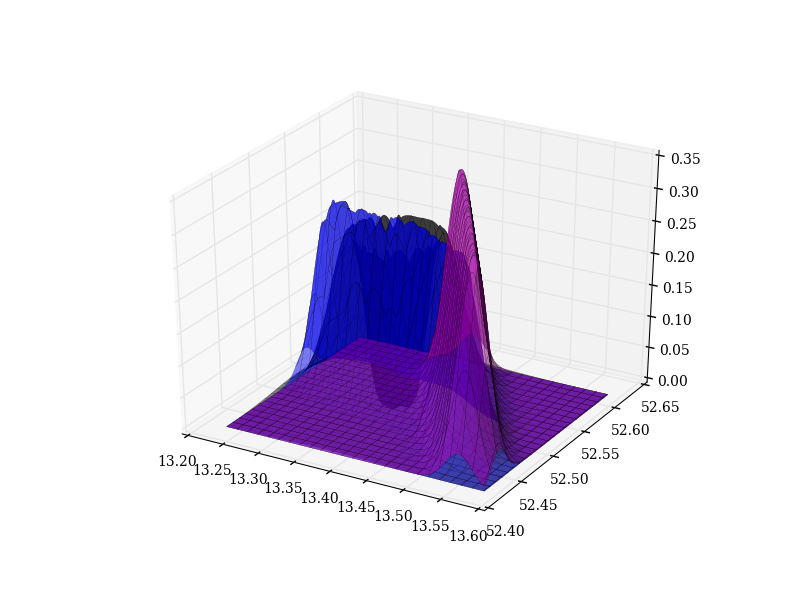
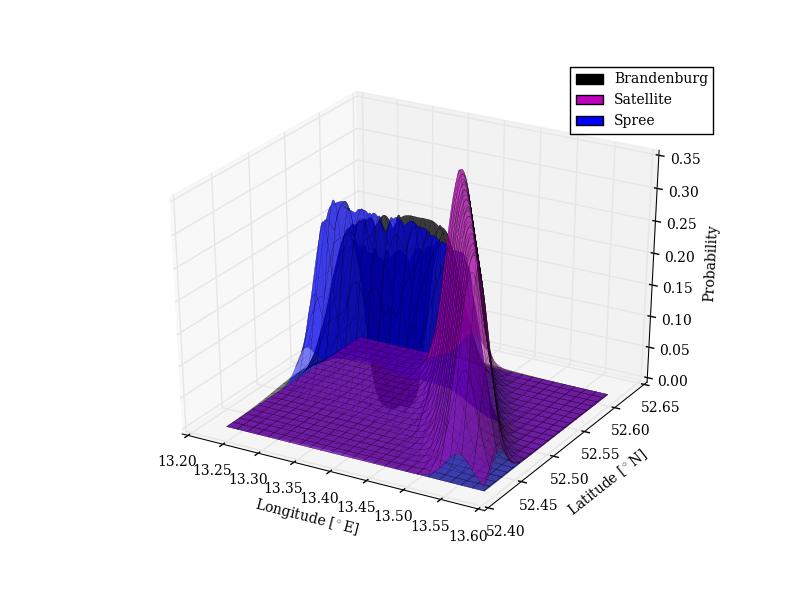
updated plots

diff --git a/zalando_solution.py b/zalando_solution.py
@@ -1,14 +1,16 @@
 #........
+import os
 import gmplot
 import matplotlib as mpl
 import matplotlib.pyplot as plt
+import matplotlib.patheffects as PathEffects
 #from mpl_toolkits.basemap import Basemap
 from mpl_toolkits.mplot3d import Axes3D
 import numpy as np
 from scipy import stats
 from shapely.geometry import LineString, Point
 
-# Coordinates given in teaser question
+##Coordinates given in teaser question
 R_E = 6371 #km
 BRAN_GPS = (52.516288, 13.377689)
 SAT_GPS_START = (52.590117, 13.39915)
@@ -25,31 +27,36 @@ SPREE_GPS = [(52.529198, 13.274099), (52.531835, 13.292340),
              (52.488739, 13.491456), (52.464011, 13.503386)]
 SW_CORNER = (52.464011, 13.274099)
 
-# Lets keep to km for nicer plots
+##Lets keep to km for nicer plots
 M_TO_KM = 1000.
 
-# Other info given in teaser
+##Other info given in teaser
 BRAN_MEAN = 4700. / M_TO_KM
 BRAN_MODE = 3877. / M_TO_KM
 SAT_DIST = 2400. / M_TO_KM
 SPREE_DIST = 2730. / M_TO_KM
 
-# Some plot settings
+##Some plot settings
 mpl.rc('font', family='serif', weight='normal', size=10)
 
-# Some settings I have defined
-# Search box size
+##Some settings I have defined:
+##Search box size
 LAT_RANGE = (52.41583, 52.61167)
 LON_RANGE = (13.23389, 13.58944)
-# Search resolution (placed up here in case want to change it):
+##Search resolution (placed up here in case want to change it):
 RES = 0.1
 
 
 def main():
     """......
         """
+    ##Just making a results folder for the output..
+    if not os.path.isdir('results'):
+        os.mkdir('results')
+    
     ##First I mapped all the information as a sanity check,
     ##Note, my first version was using Basemap but commented out as it totally sucked...
+#    plot_teaser_basemap()
     plot_teaser_coords()
 
 	##lets work with the info we have been given re: the probability distributions.
@@ -61,6 +68,8 @@ def main():
 	##commented out as really not needed for the solution
 #    plot_distribs(bran_lognorm, sat_norm, spree_norm)
 
+    #---------------------------------
+
 	##I decided to use the conversion equations provided to me to work in cartesian
 	##rather than spherical coordinates, so next step is to convert everything needed.
     bran_coords = sphere_to_cart(BRAN_GPS[0], BRAN_GPS[1])
@@ -70,30 +79,59 @@ def main():
 
 	##I also need to define a search box,
 	##which I based on the min/max of the coords provided
-    x_shape, box = search_box(LAT_RANGE, LON_RANGE, RES)
+    x, y, box = search_box(LAT_RANGE, LON_RANGE, RES)
 
 	##Now calculate pdfs
     bran_prob = pdf_point(box, Point(bran_coords), bran_lognorm)
     sat_prob = pdf_point(box, LineString([(sat_coords_start), (sat_coords_end)]), sat_norm)
     spree_prob = pdf_point(box, LineString(spree_coords), spree_norm)
 
-    bran_z = np.array(bran_prob).reshape(x_shape)
-    sat_z = np.array(sat_prob).reshape(x_shape)
-    spree_z = np.array(spree_prob).reshape(x_shape)
+    bran_z = np.array(bran_prob).reshape(x.shape)
+    sat_z = np.array(sat_prob).reshape(x.shape)
+    spree_z = np.array(spree_prob).reshape(x.shape)
+
+    ##Plot the results
+#    plot_contour_distribs(bran_z, sat_z, spree_z, x, y)
+
+    #---------------------------------
 
 	##Convert back to spherical coords
-    lat_grid, lon_grid = search_grid(box, x_shape)
+    lat_grid, lon_grid = search_grid(box, x.shape)
 
 	##Combine them and print out max
     total_z = bran_z + sat_z + spree_z
     max_loc = np.where(total_z == total_z.max())
     analyst_loc = (float(lat_grid[max_loc]), float(lon_grid[max_loc]))
-    print analyst_loc
+    print "Analyst most likely at:", analyst_loc,
+    print "with a probability of", total_z.max()
+
+    ##Save the location in a text file
+    np.savetxt("./results/location.txt",
+               np.c_[analyst_loc],
+               fmt = "%0.4f",
+               header = "latitude longitude")
 
 	##Plot the distributions
     plot_pdf(bran_z, sat_z, spree_z, total_z, lat_grid, lon_grid, max_loc)
 
+    ##Show location on google map
     plot_solution(analyst_loc)
+
+
+##===========================================================================
+
+def axis_contour_settings(ax, x, y, text):
+    """...
+        """
+    ax.axis([x.min(), x.max(), y.min(), y.max()])
+    ax.text(x.min(), y.min(), text,
+            path_effects=[PathEffects.withStroke(linewidth=0.8, foreground="w")])
+
+
+def axis_pdf_settings(ax, xlabel=[], ylabel=[], zlabel=[]):
+    ax.set_xlabel(xlabel)
+    ax.set_ylabel(ylabel)
+    ax.set_zlabel(zlabel)
 
 
 def cart_to_sphere(p_x, p_y):
@@ -136,21 +174,50 @@ def pdf_point(box, point, distrib):
     return prob
 
 
-#def plot_distribs(bran, sat, spree):
-#    """......
-#        """
-#    x = np.linspace(0, 10, 101)
-#    fig = plt.figure()
-#    ax = fig.add_subplot(1, 1, 1)
-#    ax.plot(x, bran.pdf(x),
-#            label = 'Brandenburg', color = 'k')
-#    ax.plot(x, sat.pdf(x),
-#            label = 'Satellite', color = 'm')
-#    ax.plot(x, spree.pdf(x),
-#            label = 'Spree', color = 'b')
-#    ax.legend()
-#    fig.savefig('./results/norms.png', format = "png")
-#    plt.close()
+def plot_contour_distribs(bran_z, sat_z, spree_z, x, y):
+    """.....
+        """
+    norm = mpl.colors.Normalize(vmin=bran_z.min(),
+                                vmax=bran_z.max())
+    fig = plt.figure()
+    fig.subplots_adjust(top = 0.33)
+    bran = fig.add_subplot(131)
+    bran_fig = bran.pcolor(x, y, bran_z,
+                cmap='hot', norm=norm)
+    axis_contour_settings(bran, x, y,
+                  text = 'Brandenburg')
+    sat = fig.add_subplot(132)
+    sat.pcolor(x, y, sat_z,
+               cmap='hot', norm=norm)
+    axis_contour_settings(sat, x, y,
+                  text = 'Satellite')
+    spree = fig.add_subplot(133)
+    spree.pcolor(x, y, spree_z,
+                 cmap='hot', norm=norm)
+    axis_contour_settings(spree, x, y,
+                  text = 'Spree')
+    fig.colorbar(bran_fig, label = 'Probability')
+    fig.savefig('./results/distribs_2d.png',
+                bbox_inches='tight',
+                format="png")
+    plt.close()
+
+
+def plot_distribs(bran, sat, spree):
+    """......
+        """
+    x = np.linspace(0, 10, 101)
+    fig = plt.figure()
+    ax = fig.add_subplot(111)
+    ax.plot(x, bran.pdf(x),
+            label = 'Brandenburg', color='k')
+    ax.plot(x, sat.pdf(x),
+            label = 'Satellite', color='m')
+    ax.plot(x, spree.pdf(x),
+            label = 'Spree', color='b')
+    ax.legend()
+    fig.savefig('./results/norms.png', format="png")
+    plt.close()
 
 
 def plot_pdf(bran_z, sat_z, spree_z, total_z, lat, lon, loc):
@@ -164,18 +231,27 @@ def plot_pdf(bran_z, sat_z, spree_z, total_z, lat, lon, loc):
     ax.plot_surface(lon, lat, bran_z,
                     color='k',
                     alpha=alpha, lw=lw)
+    bran_proxy = plt.Rectangle((0, 0), 1, 1, fc="k")
     ax.plot_surface(lon, lat, sat_z,
                     color='m',
                     alpha=alpha, lw=lw)
+    sat_proxy = plt.Rectangle((0, 0), 1, 1, fc="m")
     ax.plot_surface(lon, lat, spree_z,
                     color='b',
                     alpha=alpha, lw=lw)
+    spree_proxy = plt.Rectangle((0, 0), 1, 1, fc="b")
+    axis_pdf_settings(ax,
+                      xlabel=r'Longitude [$^\circ$E]',
+                      ylabel='Latitude [$^\circ$N]',
+                      zlabel='Probability')
+    ax.legend([bran_proxy, sat_proxy, spree_proxy],
+              ['Brandenburg', 'Satellite', 'Spree'],
+              fontsize = 10)
     fig.savefig('./results/distribs_all.png', format="png")
     plt.close()
 
     fig = plt.figure()
     ax_tot = fig.add_subplot(111, projection="3d")
-
     ax_tot.plot_surface(lon, lat, total_z,
                         color='y',
                         alpha=alpha, lw=lw)
@@ -184,6 +260,10 @@ def plot_pdf(bran_z, sat_z, spree_z, total_z, lat, lon, loc):
                     offset=0, cmap='hot')
     ax_tot.plot(lon[loc], lat[loc],
                 'ko', markersize=2)
+    axis_pdf_settings(ax_tot,
+                      xlabel='Longitude [$^\circ$E]',
+                      ylabel='Latitude [$^\circ$N]',
+                      zlabel='Probability')
     fig.savefig('./results/distrib_total.png', format="png")
     plt.close()
 
@@ -262,7 +342,7 @@ def search_box(lat_range, lon_range, interval):
         for j in range(0, len(y[i])):
             box.append([x[i][j], y[i][j]])
 
-    return x.shape, box
+    return x, y, box
 
 
 def search_grid(box, x_shape):

diff --git a/README.md b/README.md
@@ -19,7 +19,7 @@ This is what we could extract from independent sources:
 Coordinates
 -----------
 
-Radis of Earth is defined as:
+Radius of Earth is defined as:
 
     earth_radius = 6371 #units in km
 
@@ -54,35 +54,35 @@ Solution
 
 Set up
 --------
-I will use Python and its many fabulous packages to attempt to solve this teaser. In particular I'll be working with an [Anaconda](https://www.continuum.io/why-anaconda) installation of Python 2.7 under Mac OSX 10 and Linux RHEL 6. All code is in the `zalando_solution.py` unless otherqise stated below. You can run it yourself  if you have the right dependancies installed (see below):
+I will use Python and its many fabulous packages to attempt to solve this teaser. In particular I'll be working with an [Anaconda](https://www.continuum.io/why-anaconda) installation of Python 2.7 with Mac OSX 10.10.5. It has also been tested in Red Hat Enterprise Linux 6.7. All code is in `zalando_solution.py` unless otherwise stated below. You can run it yourself  if you have the right dependancies installed (see below):
 
     import zalando_solution
     zalando_solution.main()
 
-External dependancies
+External dependencies
 --------------------------------
 
-
-    gmplot (zalando_solution)
-    matplotlib (zalando_solution)
-    \-pyplot (zalando_solution) 
+    gmplot 
+    matplotlib 
+    \-patheffects 
+    \-pyplot 
     mpl_toolkits 
-    \-mplot3d (zalando_solution)
-    numpy (zalando_solution)
+    \-mplot3d 
+    numpy 
     scipy 
-    \-stats (zalando_solution)
+    \-stats 
     shapely 
-    \-geometry (zalando_solution)
+    \-geometry 
 
 Method
 ----------
-Firstly I decided to take a quick look at the coordinates just to get a sense of what was going on. The only package for Earth maps I've used in the past is Basemap so that was my starting point. For thermospheric modelling I plot latitude and longitude all the time so I kept that system rather than converting. You will find this defined as `plot_teaser_basemap()`, however its commented out since it turns out that Basemap sucks for really zoomed in areas unless you have streetmap etc files! 
+Firstly I decided to take a quick look at the coordinates just to get a sense of what was going on. The only package for Earth maps I've used in the past is Basemap so that was my starting point. For thermospheric modelling I plot latitude and longitude all the time so I kept that system rather than converting. You will find this defined as `plot_teaser_basemap()`, however its commented out since it turns out that Basemap sucks for really zoomed in areas unless you have street map etc files! 
 
 So I investigated another way to do it, and after some googling I found [``gmplot``](https://github.com/vgm64/gmplot.git) a good option since it allows plotting straight onto a Google map with Python. See `plot_teaser_coords()`, which outputs _teaser_coords.html_ in the _results_ folder.
 
 ![Google map of info provided for teaser](http://i.imgur.com/UEgKoN8.jpg)
 
-In this image, the Brandenburg Gate location is in black, the satellite path is in magenta, and the river is in blue. Note that since no information is given about the satellite at all (its altitude, whether its in e.g., LEO or GEO orbit, etc), I had to assume its a straight line path. Over such a short distance this is probably pretty accurate anyway.
+In this image, the Brandenburg Gate location is in black, the satellite path is in magenta, and the river is in blue. This colour convention will be continued for the rest of the analysis.Note that since no information is given about the satellite at all (its altitude, whether its in e.g., LEO or GEO orbit, etc), I had to assume its a straight line path. Over such a short distance this is probably pretty accurate anyway.
 
 ----------
 
@@ -105,7 +105,7 @@ Now the satellite and Spree sources are both [normal distributions](https://en.w
 
 That means we can use that lovely number 1.96 (the joys of 2sigma) for calculating the mean, with `mu = 0.` here. You'll see in the `normal()` function that I didn't just write the number though ;)
 
-As a sanity check I did plot these results using `plot_distribs()`, but you'll see it's commented out as it's not needed for the solution. This will output the below image.
+As a sanity check I plotted the results using `plot_distribs()`, which will output _norms.png_ in the _results_ folder. Note this really isn't needed for the solution, and has been commented out of the main code. 
 
 ![Quick view of all the distributions](http://i.imgur.com/CWcGM9q.png)
 
@@ -124,13 +124,18 @@ These ranges were converted to cartesian and a `box` was created with resolution
 
 ----------
 
-Now to calculate the probability distribution functions for each of the sources. I came across the [`shapely`](https://github.com/Toblerity/Shapely) package on StackOverflow for analysis in cartesian geometry, which I used for calculating the distance from points to points/lines. However, its worth noting other ways to this. See `distance.py` for some functions to use maths to calculate the same thing. Note the `haversine()` function there (which I also found on Stackoverflow) can be used to do this in spherical geometry instead!
+Now to calculate the probability distribution functions for each of the sources. I came across the [`shapely`](https://github.com/Toblerity/Shapely) package on Stack Overflow for analysis in cartesian geometry, which I used for calculating the distance from points to points/lines. However, its worth noting other ways to this. See `distance.py` for some functions to use maths to calculate the same thing. Note the `haversine()` function there (which I also found on Stack Overflow) can be used to do this in spherical geometry instead!
 
 See the `pdf_point()` function for the calculations, where the following were used:
 
     brandenburg_point = Point(bran_coords)
     satellite_point = LineString([(sat_coords_start), (sat_coords_end)])
     spree_point = LineString(spree_coords)
+
+I made another 'sanity check' figure with `plot_contour_distribs()`, resulting in _distribs_2d.png_ in the _results_ folder again. As before, this has been commented out of the main code as its not needed for the solution.
+
+![2D plots of distributions](https://i.imgur.com/O9TU539.png)
+
 
 ----------
 
@@ -142,18 +147,18 @@ In operational space weather forecasting, the easiest way to combine multiple fo
 
 I created some plots of the results with `plot_pdf()`, see _distribs_all.png_ and _distrib_total.png_ in the _results_ folder.
 
-![3D view of the distributions](http://i.imgur.com/VWcemi5.png)
+![3D view of the distributions](http://i.imgur.com/ODA0mYm.png)
 
-![3D view of the total probability distribution](http://i.imgur.com/9lu22Oy.png)
+![3D view of the total probability distribution](http://i.imgur.com/zlFN8Ts.png)
 
 
 Result
 ---------
-It is clear from the 3D view of the total probability distribution that there are multiple peaks. However, the teaser asked for the best location to send the recruiters, so to calculate this I simply found the maximum of the distribution. So (*drumroll*), you will find them here:
+It is clear from the 3D view of the total probability distribution that there are multiple peaks. However, the teaser asked for the best location to send the recruiters, so to calculate this I simply found the maximum of the distribution. So (*drumroll...*), you will most likely find the analyst here:
 
     52.49128610520737, 13.49485721977875
 
-I created a map of the location with `plot_pdf()`, outputting _analyst_location.html_ in the _results_ folder.
+I created a map of the location with `plot_solution()`, outputting _analyst_location.html_ in the _results_ folder.
 
 ![Map of analyst location](https://i.imgur.com/g1KhvmN.jpg)
 
@@ -161,4 +166,6 @@ The recruiters can use this Google map link to get directions:
 
 https://www.google.com/maps/?q=52.4912861052,13.4948572198
 
-Its worth noting that the location looks to be some kind of factory, so it might be worth investigating the other peaks in the distribution!
+I have also saved the result to _location.txt_ in the _results_ folder in case its forgotten and needed at a later point.
+
+Its worth noting that the location looks to be some kind of factory, which is a bit odd, so it might be worth investigating the other peaks in the distribution!
